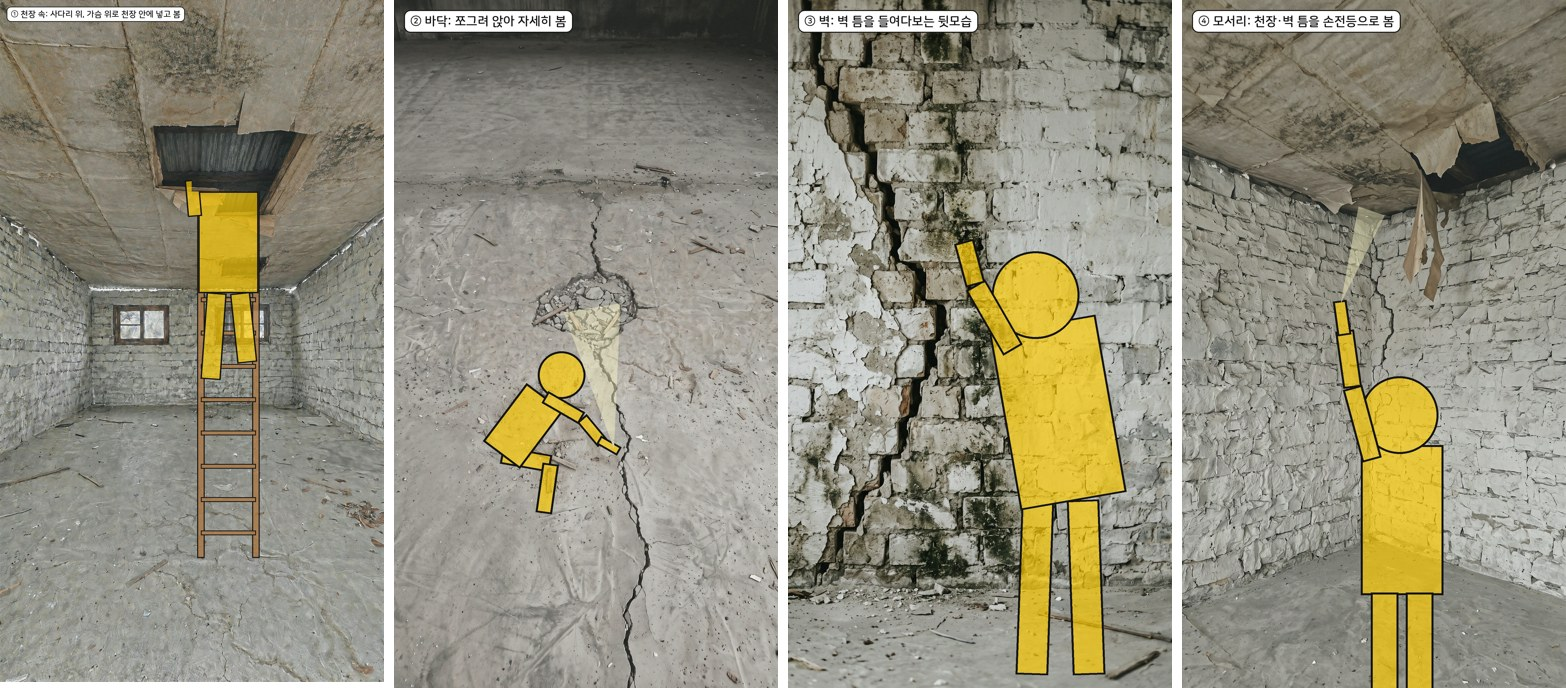
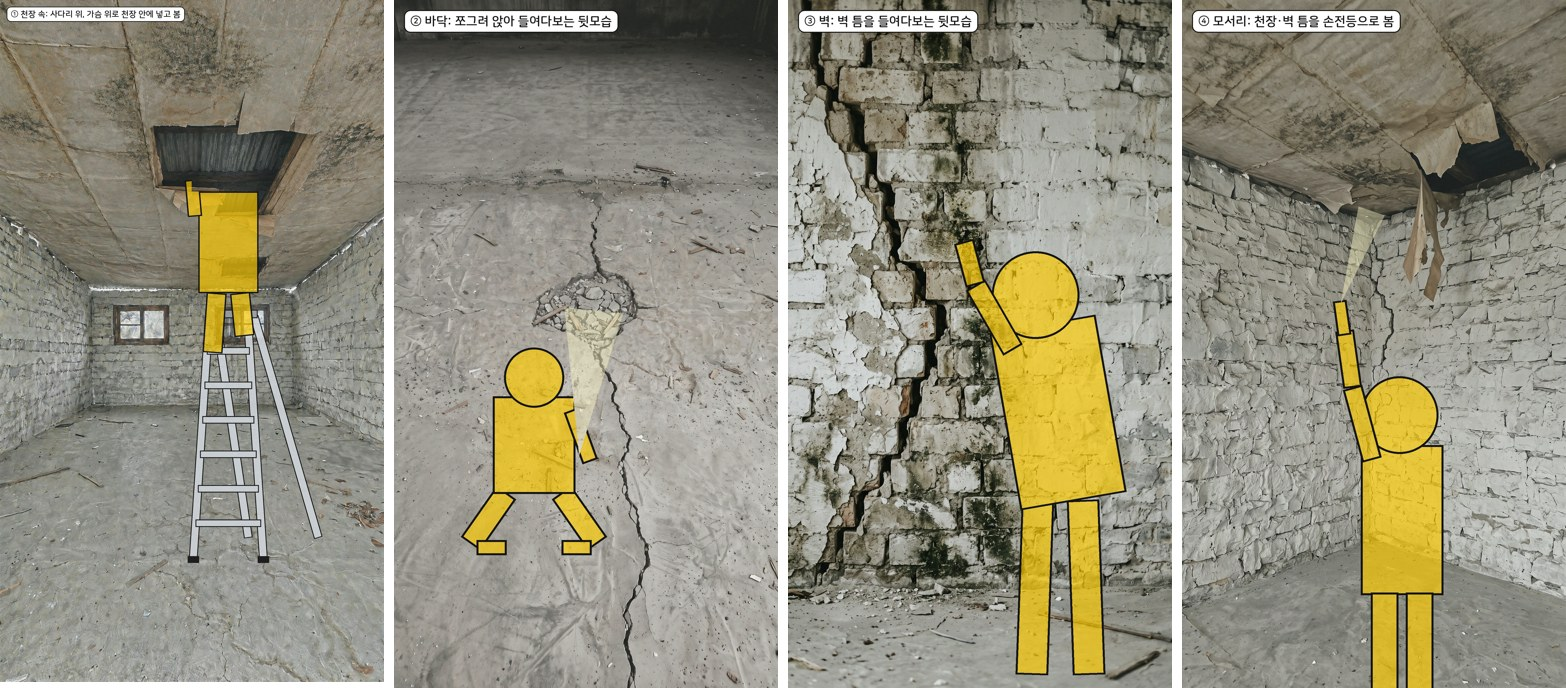
Shorts: dummy v3 (A-frame ladder, back-view crouch)
Claude-Session: https://claude.ai/code/session_01M8Dw6TGK57G7PrdJKvp29a

diff --git a/shorts/bg/inspect/dummy/make_blocks2.py b/shorts/bg/inspect/dummy/make_blocks2.py
@@ -8,20 +8,31 @@ rbox, limb, head, beam, label = ns['rbox'], ns['limb'], ns['head'], ns['beam'], 
 FILL, LINE = ns['FILL'], ns['LINE']
 WOOD = (170, 120, 70, 210)
 
-def ladder(d, x, y_top, y_bot, w=330, rung=200):
-    for xx in (x - w/2, x + w/2):
-        d.rectangle((xx - 22, y_top, xx + 22, y_bot), fill=WOOD, outline=LINE, width=6)
-    y = y_bot - 150
-    while y > y_top + 60:
-        d.rectangle((x - w/2, y - 14, x + w/2, y + 14), fill=WOOD, outline=LINE, width=5); y -= rung
+ALU = (205, 210, 215, 235)
+def ladder(d, x, y_top, y_bot, w_top=230, w_bot=420, splay=330, rung=230):
+    """A-frame step ladder seen in 3/4: front section with rungs + rear legs splayed back."""
+    def bar(x0, y0, x1, y1, t=26):
+        ang = math.atan2(y1 - y0, x1 - x0) + math.pi/2; dx, dy = t*math.cos(ang), t*math.sin(ang)
+        d.polygon([(x0-dx, y0-dy), (x0+dx, y0+dy), (x1+dx, y1+dy), (x1-dx, y1-dy)], fill=ALU, outline=LINE, width=5)
+    # rear legs (behind)
+    bar(x - w_top/2 + 40, y_top, x - w_bot/2 + splay, y_bot - 120); bar(x + w_top/2 + 40, y_top, x + w_bot/2 + splay, y_bot - 120)
+    # front rails
+    bar(x - w_top/2, y_top, x - w_bot/2, y_bot); bar(x + w_top/2, y_top, x + w_bot/2, y_bot)
+    n = int((y_bot - y_top) // rung)
+    for i in range(1, n + 1):
+        y = y_top + i * (y_bot - y_top) / (n + 1); t = (y - y_top) / (y_bot - y_top)
+        half = (w_top + (w_bot - w_top) * t) / 2
+        d.rectangle((x - half, y - 22, x + half, y + 22), fill=ALU, outline=LINE, width=5)
+    d.rectangle((x - w_top/2 - 20, y_top - 40, x + w_top/2 + 60, y_top + 10), fill=(150, 155, 160, 240), outline=LINE, width=5)  # top cap
+    for xx in (x - w_bot/2, x + w_bot/2): d.rectangle((xx - 34, y_bot - 10, xx + 34, y_bot + 30), fill=(30, 30, 30, 255))  # feet
 
 def s1():
     bg = Image.open('bg/B7_int_ceiling_post_topaz2x.jpg').convert('RGBA')
     lay = Image.new('RGBA', bg.size, (0, 0, 0, 0)); d = ImageDraw.Draw(lay)
     hole_bottom = 1150                                     # lower edge of the big ceiling hole
-    ladder(d, 1370, hole_bottom - 40, 3350)
+    ladder(d, 1370, 1900, 3350)
     hx, hy = 1370, 1760                                    # hip
-    limb(d, hx - 70, hy, 520, 4, 120); limb(d, hx + 70, hy, 420, -6, 120)   # legs on rungs
+    limb(d, hx - 70, hy, 360, 4, 120); limb(d, hx + 70, hy, 260, -6, 120)   # legs standing on upper steps
     rbox(d, hx, (hy + hole_bottom) / 2, 360, hy - hole_bottom, 0)            # torso disappears into hole
     limb(d, hx - 200, 1300, 220, 175, 85)                 # arm going up into the hole
     # hide anything above the hole edge (upper body is inside the ceiling)
@@ -31,15 +42,14 @@ def s1():
 def s2():
     bg = Image.open('bg/inspect/insp2_floor_wide.jpg').convert('RGBA')
     lay = Image.new('RGBA', bg.size, (0, 0, 0, 0)); d = ImageDraw.Draw(lay)
-    hx, hy = 430, 1820
-    kx, ky = limb(d, hx, hy, 200, -80, 70); limb(d, kx, ky, 200, 8, 65)
-    sx, sy = hx + 0.6*290, hy - 0.8*290
-    rbox(d, (hx+sx)/2, (hy+sy)/2, 185, 290, 37)
-    head(d, sx + 0.6*110, sy - 0.8*110, 95)
-    ex, ey = limb(d, sx, sy, 170, -60, 55); fx, fy = limb(d, ex, ey, 130, -40, 50)
-    rbox(d, fx + 25, fy + 10, 38, 95, -60)
-    beam(lay, fx + 45, fy + 20, 790, 1220, 0.2)
-    bg.alpha_composite(lay); label(bg, '② 바닥: 쪼그려 앉아 자세히 봄'); return bg
+    cx, base = 560, 2200                                   # back view, crouching, facing the crack (up in frame)
+    limb(d, cx - 110, base - 230, 250, 35, 95); limb(d, cx + 110, base - 230, 250, -35, 95)   # folded legs splayed
+    rbox(d, cx - 170, base - 10, 120, 60, 0); rbox(d, cx + 170, base - 10, 120, 60, 0)        # feet
+    rbox(d, cx, base - 420, 330, 390, 0)                   # back (torso seen from behind, leaning forward)
+    head(d, cx, base - 690, 120)                           # back of head, looking down at the crack
+    limb(d, cx + 150, base - 560, 220, -20, 65)            # one arm reaching forward (seen from behind)
+    beam(lay, cx + 180, base - 380, 800, 1230, 0.2)        # flashlight toward the crack
+    bg.alpha_composite(lay); label(bg, '② 바닥: 쪼그려 앉아 들여다보는 뒷모습'); return bg
 
 def s3():
     bg = Image.open('bg/inspect/insp3_wall.jpg').convert('RGBA')
